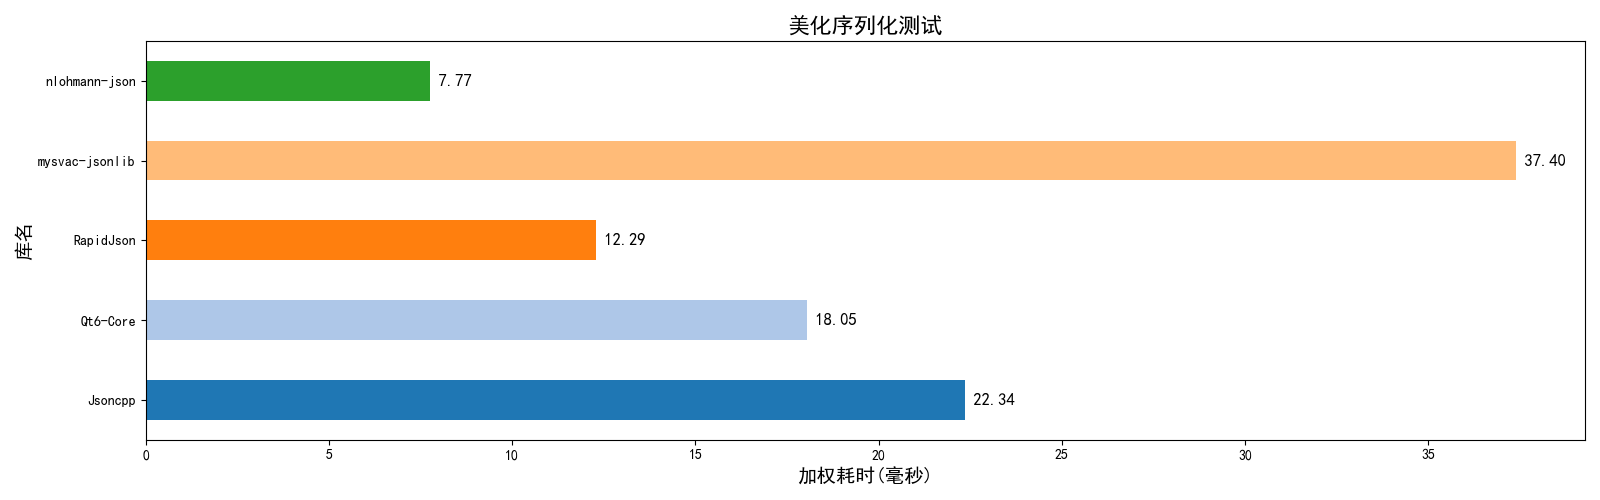
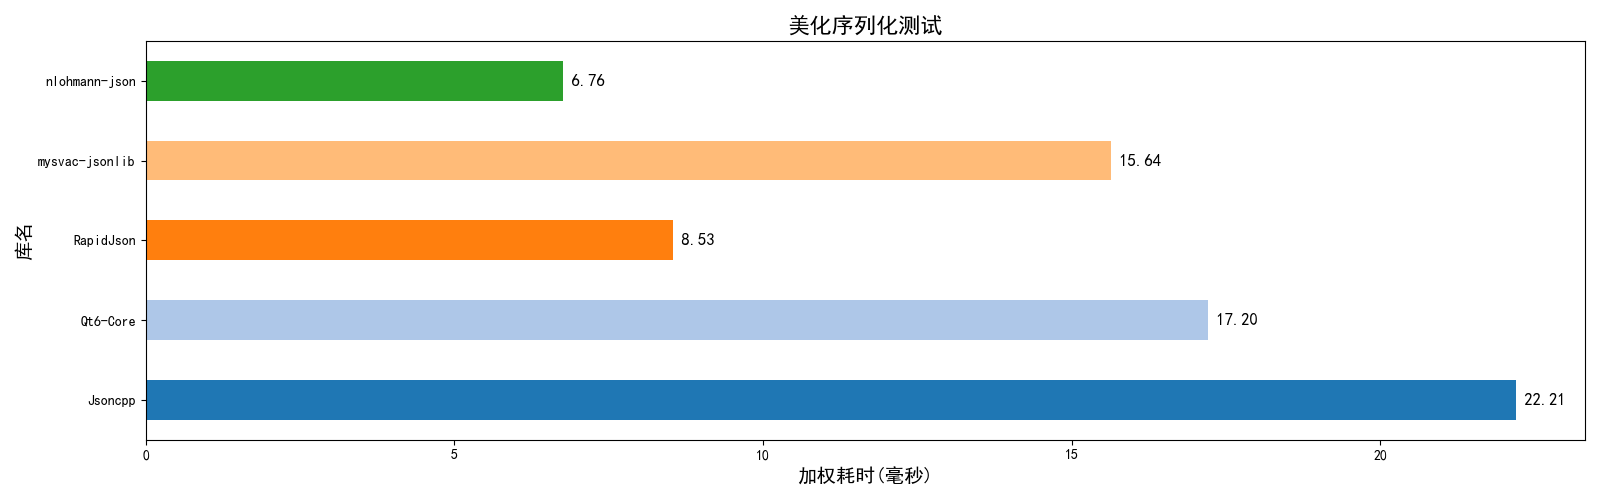
mysvac-jsonlib测试2.0

diff --git a/test_codes/models/model_test_mysvac-jsonlib.cpp b/test_codes/models/model_test_mysvac-jsonlib.cpp
@@ -76,7 +76,7 @@ static void get_element_num(const Jsonlib::JsonValue& json, JsonCounter& counter
     case Jsonlib::JsonType::NUMBER:
         counter.numberNum += 1;
         break;
-    case Jsonlib::JsonType::BOOLEN:
+    case Jsonlib::JsonType::BOOL:
         counter.boolenNum += 1;
         break;
     case Jsonlib::JsonType::ISNULL:

diff --git a/test_codes/test_mysvac-jsonlib.cpp b/test_codes/test_mysvac-jsonlib.cpp
@@ -76,7 +76,7 @@ static void get_element_num(const Jsonlib::JsonValue& json, JsonCounter& counter
     case Jsonlib::JsonType::NUMBER:
         counter.numberNum += 1;
         break;
-    case Jsonlib::JsonType::BOOLEN:
+    case Jsonlib::JsonType::BOOL:
         counter.boolenNum += 1;
         break;
     case Jsonlib::JsonType::ISNULL:
